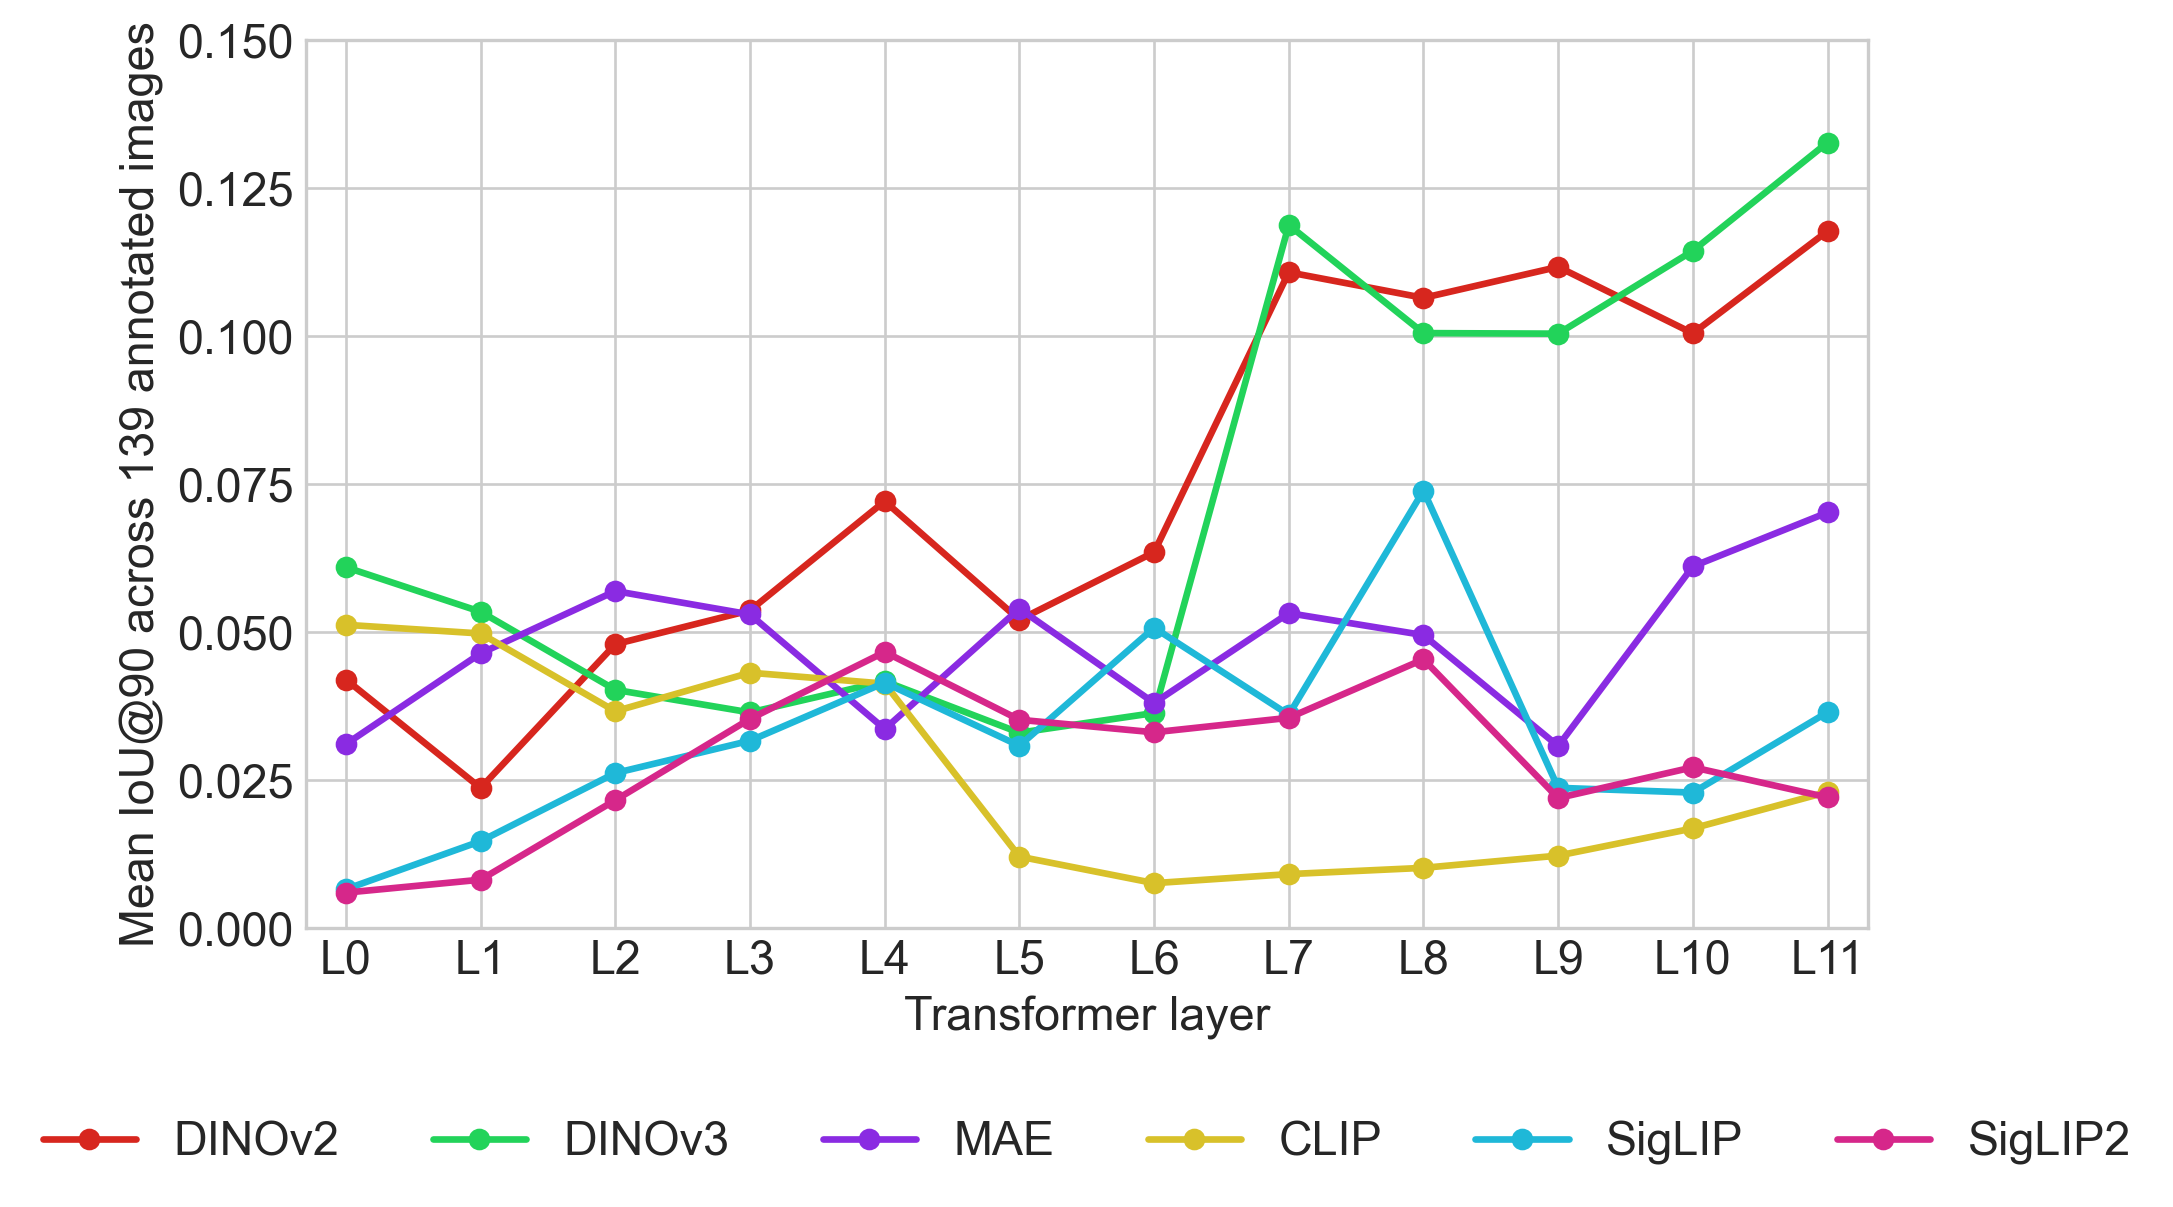
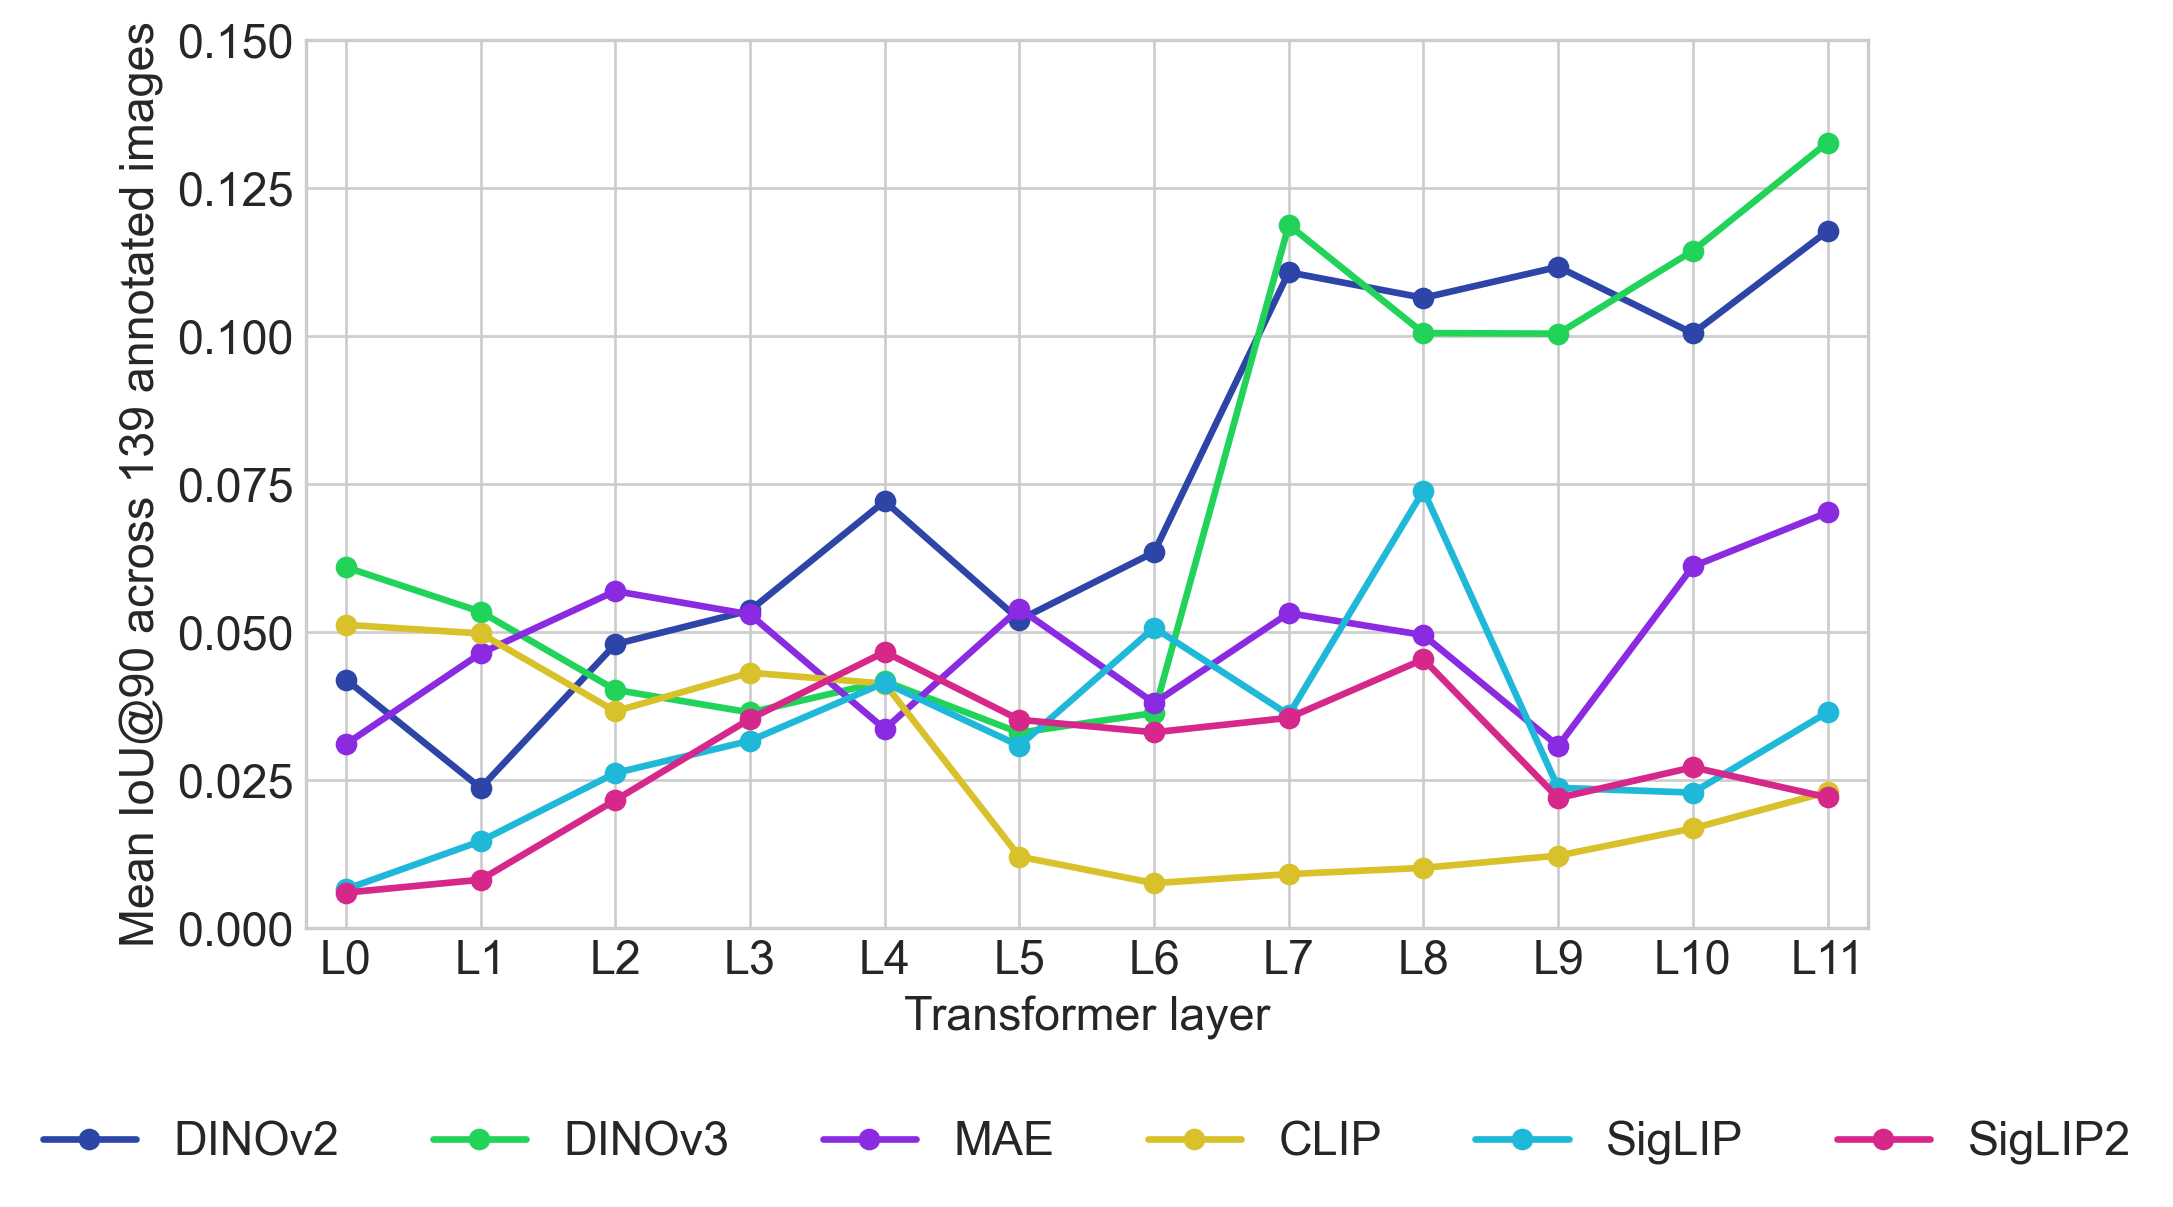
enhancement: restyle Figure 9 markers and recolor DINOv2 (R1-Q3)
Figure 9 now draws Frozen runs as filled circles, LoRA runs as hollow
model shapes and Full runs as filled model shapes, keeping the arrows.
DINOv2 becomes a hexagon so the circle means Frozen only. Frozen CLIP
and SigLIP2 share an accuracy of 0.820, so their dots are pushed apart
along the line joining them until they touch (+/-0.0016 IoU@90); the
script prints each offset.

DINOv2 moves from red #D7261E to blue #2E45A8 in the shared palette.
The dataviz palette validator put the old red against SigLIP2's
magenta at dE 13.8 under normal vision, below its floor of 15. The
blue is at least 17.5 (normal) and 9.0 (protan, deutan, tritan) from
every other model. Figure 3 uses the same palette and is regenerated;
rendering it with the old palette first gave a byte-identical PNG, so
its data is unchanged.

Refs: ssl_wikichurches-4myv

diff --git a/experiments/scripts/generate_paper_accuracy_alignment.py b/experiments/scripts/generate_paper_accuracy_alignment.py
@@ -3,22 +3,31 @@
 
 Reads accuracy_alignment_analysis.json only. Each point is one run: x is the
 classification accuracy on the 139 annotated images, y is the mean IoU@90 at
-layer 11 on the same images. Arrows run from each model's Frozen point to its
-LoRA point (dashed) and its Full point (solid).
+layer 11 on the same images. Colour marks the model. Frozen runs are filled
+dots, LoRA runs are hollow model shapes, and Full runs are filled model shapes.
+Two Frozen dots that would overlap are pushed apart, along the line joining
+them, until they just touch; the script prints each offset. With --arrows (the
+default), arrows run from each model's Frozen point to its LoRA point (dashed)
+and its Full point (solid).
 
 Usage:
   uv run python experiments/scripts/generate_paper_accuracy_alignment.py
+  uv run python experiments/scripts/generate_paper_accuracy_alignment.py --no-arrows --output out.png
 """
 
 from __future__ import annotations
 
 import argparse
+import itertools
 import json
+import math
 import sys
 from dataclasses import dataclass
 from pathlib import Path
+from typing import Any
 
 import matplotlib
+import numpy as np
 
 matplotlib.use("Agg")
 import matplotlib.pyplot as plt
@@ -39,14 +48,19 @@ DEFAULT_INPUT = (
 )
 DEFAULT_OUTPUT = PROJECT_ROOT / "docs" / "mva" / "RQ3_accuracy_alignment.png"
 
+# The circle is reserved for Frozen runs, so no model uses it as its shape.
 MARKERS = {
-    "dinov2": "o",
+    "dinov2": "h",
     "dinov3": "s",
     "mae": "^",
     "clip": "D",
     "siglip": "v",
     "siglip2": "P",
 }
+FROZEN_MARKER = "o"
+FROZEN_SIZE = 8
+SHAPE_SIZE = 10
+LEGEND_SHAPE = "s"
 NEUTRAL = "#555555"
 FILLED_EDGE = "#333333"
 
@@ -59,9 +73,9 @@ class StrategyStyle:
 
 
 STRATEGY_STYLES = {
-    "frozen": StrategyStyle("Frozen (hollow)", hollow=True, arrow_linestyle=None),
-    "lora": StrategyStyle("Frozen → LoRA", hollow=False, arrow_linestyle="--"),
-    "full": StrategyStyle("Frozen → Full", hollow=False, arrow_linestyle="-"),
+    "frozen": StrategyStyle("Frozen", hollow=False, arrow_linestyle=None),
+    "lora": StrategyStyle("LoRA", hollow=True, arrow_linestyle="--"),
+    "full": StrategyStyle("Full fine-tuning", hollow=False, arrow_linestyle="-"),
 }
 
 
@@ -69,7 +83,59 @@ def parse_args() -> argparse.Namespace:
     parser = argparse.ArgumentParser(description=__doc__.splitlines()[0])
     parser.add_argument("--input", type=Path, default=DEFAULT_INPUT)
     parser.add_argument("--output", type=Path, default=DEFAULT_OUTPUT)
+    parser.add_argument(
+        "--arrows",
+        action=argparse.BooleanOptionalAction,
+        default=True,
+        help="Draw arrows from each Frozen point to its LoRA and Full points.",
+    )
     return parser.parse_args()
+
+
+def marker_style(strategy: str, shape: str, color: str) -> dict[str, Any]:
+    style = STRATEGY_STYLES[strategy]
+    if strategy == "frozen":
+        marker, size = FROZEN_MARKER, FROZEN_SIZE
+    else:
+        marker, size = shape, SHAPE_SIZE
+    return {
+        "marker": marker,
+        "markersize": size,
+        "markerfacecolor": "white" if style.hollow else color,
+        "markeredgecolor": color if style.hollow else FILLED_EDGE,
+        "markeredgewidth": 2.0 if style.hollow else 0.8,
+    }
+
+
+def separate_overlapping_dots(
+    ax: plt.Axes, dots: dict[str, tuple[float, float]]
+) -> dict[str, tuple[float, float]]:
+    """Push each pair of overlapping Frozen dots apart, along the line joining them, until they just touch.
+
+    The shift is computed in display space, so the axis limits must already be fixed.
+    """
+    to_display = ax.transData.transform
+    to_data = ax.transData.inverted().transform
+    touch_px = (FROZEN_SIZE + 1) * ax.figure.dpi / 72
+    centers = {key: to_display(xy) for key, xy in dots.items()}
+    pairs = [
+        (a, b)
+        for a, b in itertools.combinations(dots, 2)
+        if math.dist(centers[a], centers[b]) < touch_px
+    ]
+    if len({key for pair in pairs for key in pair}) != 2 * len(pairs):
+        raise ValueError("Three or more Frozen dots overlap; pairwise separation cannot show them all.")
+    shown = dict(dots)
+    for a, b in pairs:
+        gap = centers[a] - centers[b]
+        length = float(np.hypot(*gap))
+        direction = gap / length if length else np.array([0.0, 1.0])
+        shift = direction * (touch_px - length) / 2
+        for key, center in ((a, centers[a] + shift), (b, centers[b] - shift)):
+            x, y = to_data(center)
+            shown[key] = (float(x), float(y))
+            print(f"Offset Frozen {key} by ({x - dots[key][0]:+.4f}, {y - dots[key][1]:+.4f}) for visibility")
+    return shown
 
 
 def main() -> None:
@@ -86,11 +152,18 @@ def main() -> None:
 
     plt.style.use("seaborn-v0_8-whitegrid")
     fig, ax = plt.subplots(figsize=(8.4, 5.8))
+    ax.update_datalim(list(points.values()))
+    ax.margins(x=0.08, y=0.12)
+    ax.autoscale_view()
+    # Fix the limits from the true points before any Frozen dot is moved in display space.
+    ax.set_xlim(ax.get_xlim())
+    ax.set_ylim(ax.get_ylim())
+    shown_frozen = separate_overlapping_dots(ax, {key: points[(key, "frozen")] for key, *_ in plotted_models})
     for key, _label, _method, color in plotted_models:
-        frozen_point = points[(key, "frozen")]
+        frozen_point = shown_frozen[key]
         for strategy, style in STRATEGY_STYLES.items():
-            x, y = points[(key, strategy)]
-            if style.arrow_linestyle is not None:
+            x, y = frozen_point if strategy == "frozen" else points[(key, strategy)]
+            if args.arrows and style.arrow_linestyle is not None:
                 ax.annotate(
                     "",
                     xy=(x, y),
@@ -101,24 +174,13 @@ def main() -> None:
                         "linestyle": style.arrow_linestyle,
                         "linewidth": 1.8,
                         "mutation_scale": 14,
-                        "shrinkA": 7,
+                        "shrinkA": 5,
                         "shrinkB": 7,
                     },
                     zorder=2,
                 )
-            ax.plot(
-                x,
-                y,
-                marker=MARKERS[key],
-                markersize=10,
-                linestyle="none",
-                markerfacecolor="white" if style.hollow else color,
-                markeredgecolor=color if style.hollow else FILLED_EDGE,
-                markeredgewidth=2.0 if style.hollow else 0.8,
-                zorder=3,
-            )
+            ax.plot(x, y, linestyle="none", zorder=3, **marker_style(strategy, MARKERS[key], color))
 
-    ax.margins(x=0.08, y=0.12)
     ax.xaxis.set_major_formatter(plt.FormatStrFormatter("%.2f"))
     ax.yaxis.set_major_formatter(plt.FormatStrFormatter("%.3f"))
     ax.set_xlabel("Classification accuracy (139 annotated images)", fontsize=14)
@@ -135,13 +197,9 @@ def main() -> None:
         Line2D(
             [],
             [],
-            marker=MARKERS[key],
-            markersize=10,
             linestyle="none",
-            markerfacecolor=color,
-            markeredgecolor=FILLED_EDGE,
-            markeredgewidth=0.8,
             label=label,
+            **marker_style("full", MARKERS[key], color),
         )
         for key, label, _method, color in plotted_models
     ]
@@ -149,19 +207,13 @@ def main() -> None:
         Line2D(
             [],
             [],
-            marker="o",
-            markersize=10,
-            linestyle="none",
-            markerfacecolor="white",
-            markeredgecolor=NEUTRAL,
-            markeredgewidth=2.0,
-            label=STRATEGY_STYLES["frozen"].legend_label,
-        ),
-        *(
-            Line2D([], [], color=NEUTRAL, linewidth=1.8, linestyle=style.arrow_linestyle, label=style.legend_label)
-            for style in STRATEGY_STYLES.values()
-            if style.arrow_linestyle is not None
-        ),
+            color=NEUTRAL,
+            linewidth=1.8,
+            linestyle=style.arrow_linestyle if args.arrows and style.arrow_linestyle else "none",
+            label=style.legend_label,
+            **marker_style(strategy, LEGEND_SHAPE, NEUTRAL),
+        )
+        for strategy, style in STRATEGY_STYLES.items()
     ]
     model_legend = ax.legend(
         handles=model_handles,
@@ -181,7 +233,8 @@ def main() -> None:
         ncol=len(strategy_handles),
         frameon=False,
         fontsize=14,
-        handlelength=2.6,
+        handlelength=2.6 if args.arrows else 1.0,
+        columnspacing=2.0,
     )
 
     args.output.parent.mkdir(parents=True, exist_ok=True)

diff --git a/experiments/scripts/generate_paper_layer_iou.py b/experiments/scripts/generate_paper_layer_iou.py
@@ -23,7 +23,7 @@ NUM_LAYERS = 12
 MARKER = "o"
 
 MODELS = [
-    ("dinov2", "DINOv2", "cls", "#D7261E"),
+    ("dinov2", "DINOv2", "cls", "#2E45A8"),
     ("dinov3", "DINOv3", "cls", "#22D35A"),
     ("mae", "MAE", "cls", "#8A2BE2"),
     ("clip", "CLIP", "cls", "#D8C12A"),
